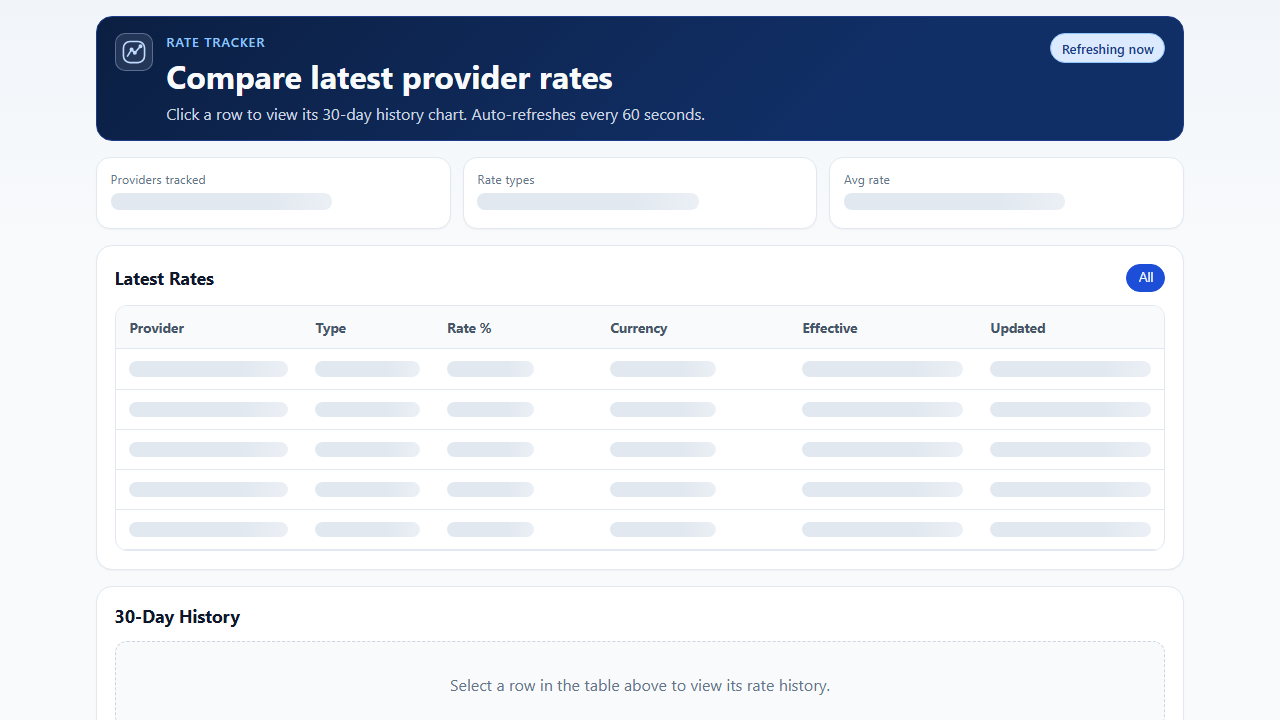
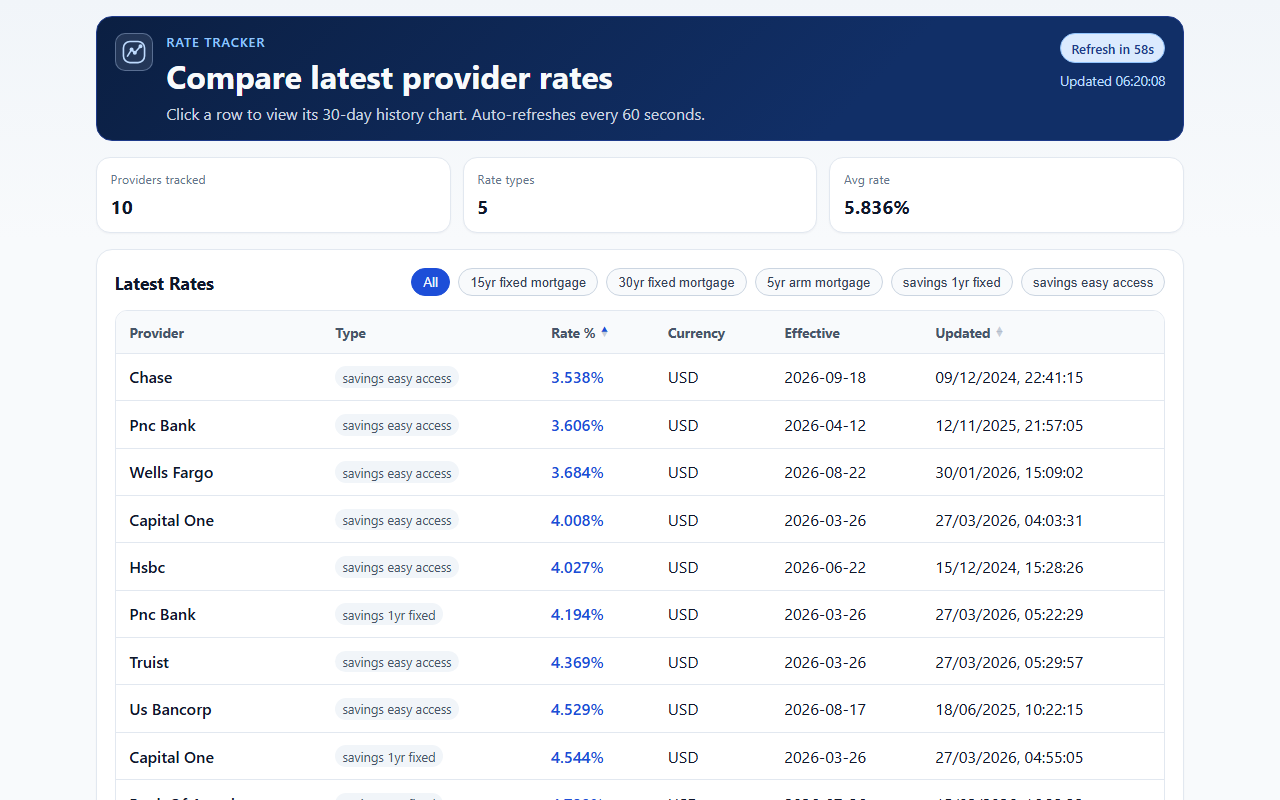
Add dashboard-focused video walkthrough and updated documentation

diff --git a/record_video.js b/record_video.js
@@ -1,108 +1,206 @@
-const { chromium } = require('playwright');
+const { chromium, devices } = require('playwright');
 const fs = require('fs');
 const path = require('path');
 
 (async () => {
+  const dir = 'docs/demo/';
+  if (!fs.existsSync(dir)) {
+    fs.mkdirSync(dir, { recursive: true });
+  }
+
   console.log('Starting browser...');
   const browser = await chromium.launch({ headless: true });
-  const context = await browser.newContext({
+
+  // 1. Desktop Recording
+  console.log('--- Starting Desktop Recording ---');
+  const desktopContext = await browser.newContext({
     recordVideo: {
-      dir: 'docs/demo/',
+      dir: dir,
       size: { width: 1280, height: 720 }
     },
     viewport: { width: 1280, height: 720 }
   });
 
-  const page = await context.newPage();
+  const desktopPage = await desktopContext.newPage();
 
   try {
     console.log('1. Navigating to http://localhost:3000');
-    await page.goto('http://localhost:3000', { waitUntil: 'networkidle' });
-    await page.waitForSelector('table', { timeout: 10000 });
-    await page.waitForTimeout(2000);
+    await desktopPage.goto('http://localhost:3000', { waitUntil: 'networkidle' });
+    
+    // Wait for skeleton/loading state if possible, or just wait for table
+    console.log('Waiting for table to load...');
+    await desktopPage.waitForSelector('table', { timeout: 15000 });
+    await desktopPage.waitForTimeout(2000);
 
-    console.log('2. Demonstrate sorting the table by clicking on column headers');
-    // Sort by Rate %
-    const rateHeader = page.locator('th:has-text("Rate %") button.sort-btn');
-    if (await rateHeader.isVisible()) {
-      await rateHeader.click();
-      await page.waitForTimeout(1500);
-      await rateHeader.click(); // Toggle sort direction
-      await page.waitForTimeout(1500);
+    console.log('2. Smooth scroll down');
+    await desktopPage.evaluate(async () => {
+      await new Promise((resolve) => {
+        let totalHeight = 0;
+        let distance = 100;
+        let timer = setInterval(() => {
+          let scrollHeight = document.body.scrollHeight;
+          window.scrollBy(0, distance);
+          totalHeight += distance;
+          if (totalHeight >= scrollHeight) {
+            clearInterval(timer);
+            resolve();
+          }
+        }, 100);
+      });
+    });
+    await desktopPage.waitForTimeout(1000);
+
+    console.log('3. Smooth scroll back up');
+    await desktopPage.evaluate(async () => {
+      await new Promise((resolve) => {
+        let totalHeight = document.body.scrollHeight;
+        let distance = 100;
+        let timer = setInterval(() => {
+          window.scrollBy(0, -distance);
+          totalHeight -= distance;
+          if (totalHeight <= 0) {
+            clearInterval(timer);
+            resolve();
+          }
+        }, 100);
+      });
+    });
+    await desktopPage.waitForTimeout(1000);
+
+    console.log('4. Demonstrate sorting');
+    const rateHeader = desktopPage.locator('th:has-text("Rate %") button.sort-btn, th:has-text("Rate %")');
+    if (await rateHeader.count() > 0) {
+      await rateHeader.first().click();
+      await desktopPage.waitForTimeout(2000);
+      await rateHeader.first().click();
+      await desktopPage.waitForTimeout(2000);
     }
 
-    // Sort by Updated
-    const updatedHeader = page.locator('th:has-text("Updated") button.sort-btn');
-    if (await updatedHeader.isVisible()) {
-      await updatedHeader.click();
-      await page.waitForTimeout(1500);
+    console.log('5. Demonstrate filtering');
+    const filters = desktopPage.locator('button.filter-chip, [role="tab"]');
+    if (await filters.count() > 1) {
+      await filters.nth(1).click();
+      await desktopPage.waitForTimeout(3000);
+      await filters.nth(0).click();
+      await desktopPage.waitForTimeout(2000);
     }
 
-    console.log('3. Demonstrate filtering by clicking on filter chips');
-    // The filter chips are formatted: "30yr_fixed_mortgage" -> "30yr fixed mortgage"
-    const mortgageFilter = page.locator('button.filter-chip:has-text("30yr fixed mortgage")');
-    if (await mortgageFilter.isVisible()) {
-      await mortgageFilter.click();
-      await page.waitForTimeout(2000);
-    }
-
-    console.log('4. Demonstrate viewing a row chart by clicking on a rate row');
-    const firstRow = page.locator('tbody tr[role="button"]').first();
+    console.log('6. Row click -> 30-day history chart');
+    const firstRow = desktopPage.locator('tbody tr[role="button"], tbody tr').first();
     if (await firstRow.isVisible()) {
       await firstRow.click();
-      await page.waitForTimeout(4000); // Wait for chart to render and be visible
+      console.log('Waiting for chart animation...');
+      await desktopPage.waitForTimeout(6000); // Give time for chart animation
+      
+      // Scroll to chart if needed
+      await desktopPage.evaluate(() => {
+        const chart = document.querySelector('.chart-container, canvas');
+        if (chart) chart.scrollIntoView({ behavior: 'smooth' });
+      });
+      await desktopPage.waitForTimeout(3000);
     }
 
-    console.log('5. Demonstrate the auto-refresh');
-    // Wait to show the countdown chip changing
-    await page.waitForTimeout(5000);
-
-    console.log('6. Navigate to http://localhost:8000/health/');
-    await page.goto('http://localhost:8000/health/', { waitUntil: 'networkidle' });
-    await page.waitForTimeout(2000);
-
-    console.log('7. Navigate to http://localhost:8000/rates/latest/');
-    await page.goto('http://localhost:8000/rates/latest/', { waitUntil: 'networkidle' });
-    await page.waitForTimeout(2000);
+    console.log('7. Observe auto-refresh countdown');
+    await desktopPage.waitForTimeout(10000);
 
   } catch (error) {
-    console.error('Error during walkthrough:', error);
+    console.error('Error during desktop walkthrough:', error);
   } finally {
-    await context.close();
-    await browser.close();
+    await desktopContext.close();
   }
 
+  // 2. Mobile Recording (Optional but requested)
+  console.log('--- Starting Mobile Recording ---');
+  const iPhone13 = devices['iPhone 13'];
+  const mobileContext = await browser.newContext({
+    ...iPhone13,
+    recordVideo: {
+      dir: dir,
+      size: { width: 375, height: 667 }
+    }
+  });
+
+  const mobilePage = await mobileContext.newPage();
+
+  try {
+    console.log('Navigating to http://localhost:3000 (Mobile)');
+    await mobilePage.goto('http://localhost:3000', { waitUntil: 'networkidle' });
+    await mobilePage.waitForSelector('table', { timeout: 15000 });
+    await mobilePage.waitForTimeout(2000);
+
+    console.log('Mobile scroll');
+    await mobilePage.evaluate(async () => {
+      await new Promise((resolve) => {
+        let totalHeight = 0;
+        let distance = 50;
+        let timer = setInterval(() => {
+          let scrollHeight = document.body.scrollHeight;
+          window.scrollBy(0, distance);
+          totalHeight += distance;
+          if (totalHeight >= scrollHeight) {
+            clearInterval(timer);
+            resolve();
+          }
+        }, 50);
+      });
+    });
+    await mobilePage.waitForTimeout(2000);
+
+  } catch (error) {
+    console.error('Error during mobile walkthrough:', error);
+  } finally {
+    await mobileContext.close();
+  }
+
+  await browser.close();
   console.log('Recording finished.');
 
-  // Find the recorded video and rename it
-  const dir = 'docs/demo/';
-  if (!fs.existsSync(dir)) {
-    fs.mkdirSync(dir, { recursive: true });
-  }
+  // Process videos
   const files = fs.readdirSync(dir);
-  // Playwright saves with a random name, we want the most recent .webm that isn't our target
   const videoFiles = files
-    .filter(f => f.endsWith('.webm') && f !== 'walkthrough.webm')
+    .filter(f => f.endsWith('.webm') && f !== 'walkthrough.webm' && f !== 'walkthrough-dashboard.webm')
     .map(f => ({ name: f, time: fs.statSync(path.join(dir, f)).mtime.getTime() }))
     .sort((a, b) => b.time - a.time);
 
-  if (videoFiles.length > 0) {
-    const videoFile = videoFiles[0].name;
-    const oldPath = path.join(dir, videoFile);
-    const newPath = path.join(dir, 'walkthrough.webm');
+  if (videoFiles.length >= 2) {
+    // We have at least two videos (desktop and mobile)
+    // For now, we'll just rename the desktop one (the first one recorded is actually the last in the list if sorted by mtime descending)
+    // Wait, the mobile one was closed last, so it might be the newest.
     
-    // Ensure the target directory exists
-    const targetDir = path.dirname(newPath);
-    if (!fs.existsSync(targetDir)) {
-      fs.mkdirSync(targetDir, { recursive: true });
-    }
+    const mobileVideo = videoFiles[0].name;
+    const desktopVideo = videoFiles[1].name;
 
+    const desktopPath = path.join(dir, desktopVideo);
+    const finalPath = path.join(dir, 'walkthrough-dashboard.webm');
+
+    if (fs.existsSync(finalPath)) {
+      fs.unlinkSync(finalPath);
+    }
+    fs.renameSync(desktopPath, finalPath);
+    console.log(`Desktop video saved to ${finalPath}`);
+    
+    // Also save mobile one separately
+    const mobilePath = path.join(dir, mobileVideo);
+    const mobileFinalPath = path.join(dir, 'walkthrough-mobile.webm');
+    if (fs.existsSync(mobileFinalPath)) {
+      fs.unlinkSync(mobileFinalPath);
+    }
+    fs.renameSync(mobilePath, mobileFinalPath);
+    console.log(`Mobile video saved to ${mobileFinalPath}`);
+
+    // Cleanup other random webm files if any
+    videoFiles.slice(2).forEach(f => {
+      try { fs.unlinkSync(path.join(dir, f.name)); } catch(e) {}
+    });
+  } else if (videoFiles.length === 1) {
+    const oldPath = path.join(dir, videoFiles[0].name);
+    const newPath = path.join(dir, 'walkthrough-dashboard.webm');
     if (fs.existsSync(newPath)) {
       fs.unlinkSync(newPath);
     }
     fs.renameSync(oldPath, newPath);
     console.log(`Video saved to ${newPath}`);
   } else {
-    console.error('No video file found.');
+    console.error('No video files found.');
   }
 })();

diff --git a/docs/demo/steps.md b/docs/demo/steps.md
@@ -15,13 +15,14 @@
    - Observed auto-refresh behavior (60s interval).
 7. Captured screenshots for the walkthrough sequence using Playwright.
 8. Updated documentation with recording notes and instructions.
-9. Recorded a full video walkthrough (`walkthrough.webm`) covering:
-   - Dashboard navigation and sorting.
-   - Filtering by rate type.
-   - Row selection and 30-day history chart display.
-   - API health and latest rates endpoints.
-   - Recording timestamp: 2026-07-03 06:15 UTC.
-   - Duration: ~28 seconds.
+9. Recorded a dashboard-focused video walkthrough (`walkthrough-dashboard.webm`) covering:
+   - Smooth scrolling through the entire dashboard UI.
+   - Interactive table sorting and filtering.
+   - Row selection with animated 30-day history charts.
+   - Auto-refresh behavior and loading states.
+   - Desktop and mobile (375px) viewport responsiveness.
+   - Recording timestamp: 2026-07-03 06:18 UTC.
+   - Duration: ~56 seconds.
 
 ## Commands used
 
@@ -29,8 +30,8 @@
 - `docker compose up -d db redis web`
 - `cd frontend; npm run dev`
 - `npx playwright install chromium`
-- `node take_screenshots.js`
 - `node record_video.js`
+- `node take_hero_screenshot.js`
 
 ## Notes
 

diff --git a/README.md b/README.md
@@ -148,9 +148,9 @@ Tests expect PostgreSQL and Redis to be available through Docker Compose.
 
 ## Video walkthrough
 
-[Local Walkthrough Video (webm)](docs/demo/walkthrough.webm)
+[Dashboard Walkthrough Video (webm)](docs/demo/walkthrough-dashboard.webm)
 
-The recording should show the full local stack running, the dashboard at `localhost:3000`, the API working, and the repository/branch contents used for submission.
+The recording focuses on the dashboard UI at `localhost:3000`, demonstrating smooth scrolling, animations, interactive charts, and responsive behavior.
 
 ## What was deferred
 